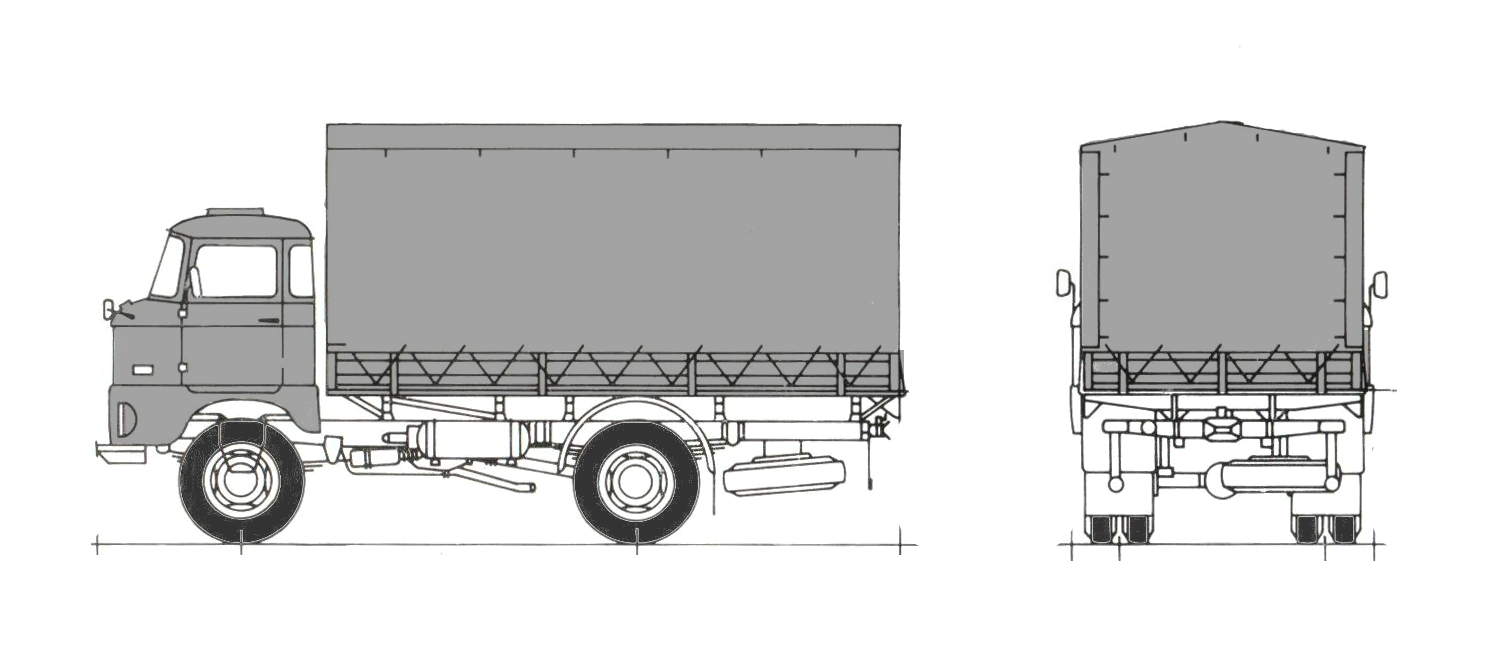
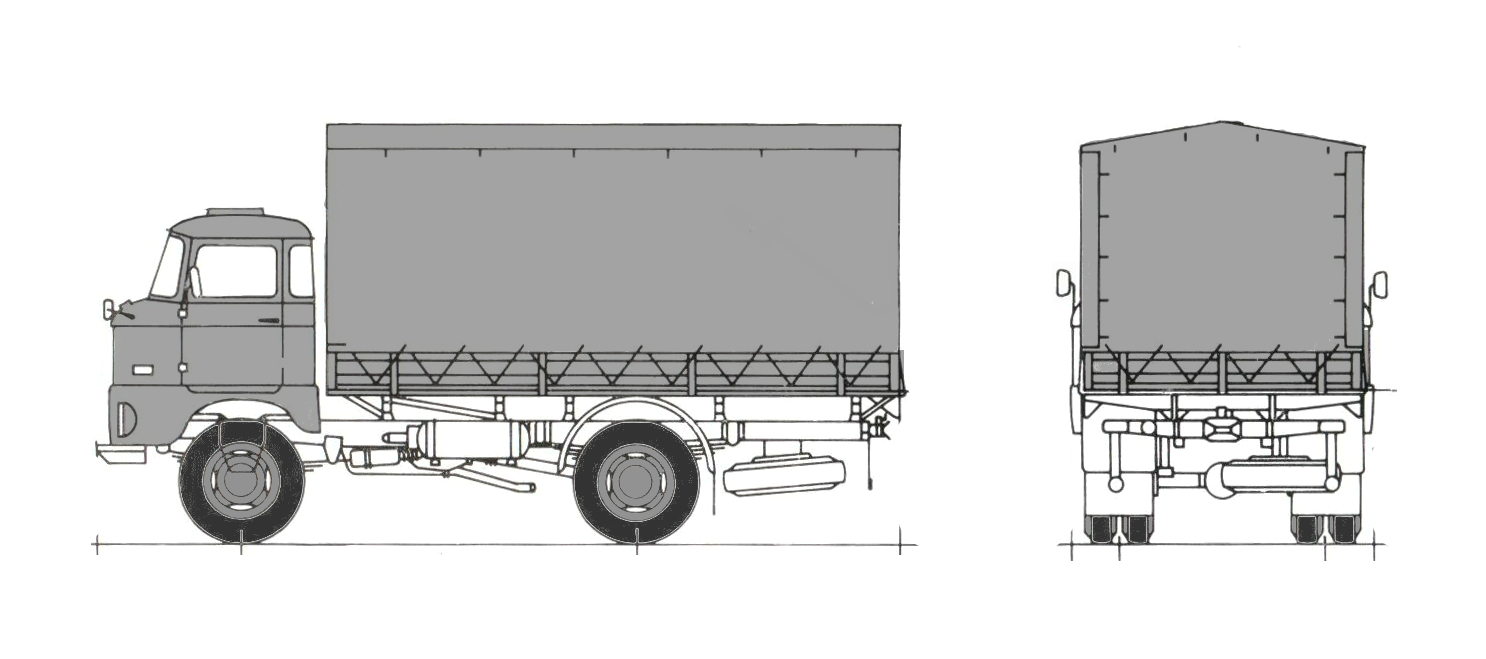
Add hub_caps layer

Changed region(s): [[0.4024, 0.6677, 0.4643, 0.7891], [0.1238, 0.6677, 0.1857, 0.7891]]

diff --git a/lib/wrsr_skinner/texture_wrapper.rb b/lib/wrsr_skinner/texture_wrapper.rb
@@ -9,7 +9,8 @@ module WRSRSkinner
       'wooden_hull_base',
       'cab_base',
       'cab_stripe_base',
-      'cab_stripe_logo'
+      'cab_stripe_logo',
+      'hub_caps'
     ]
 
     include Magick
